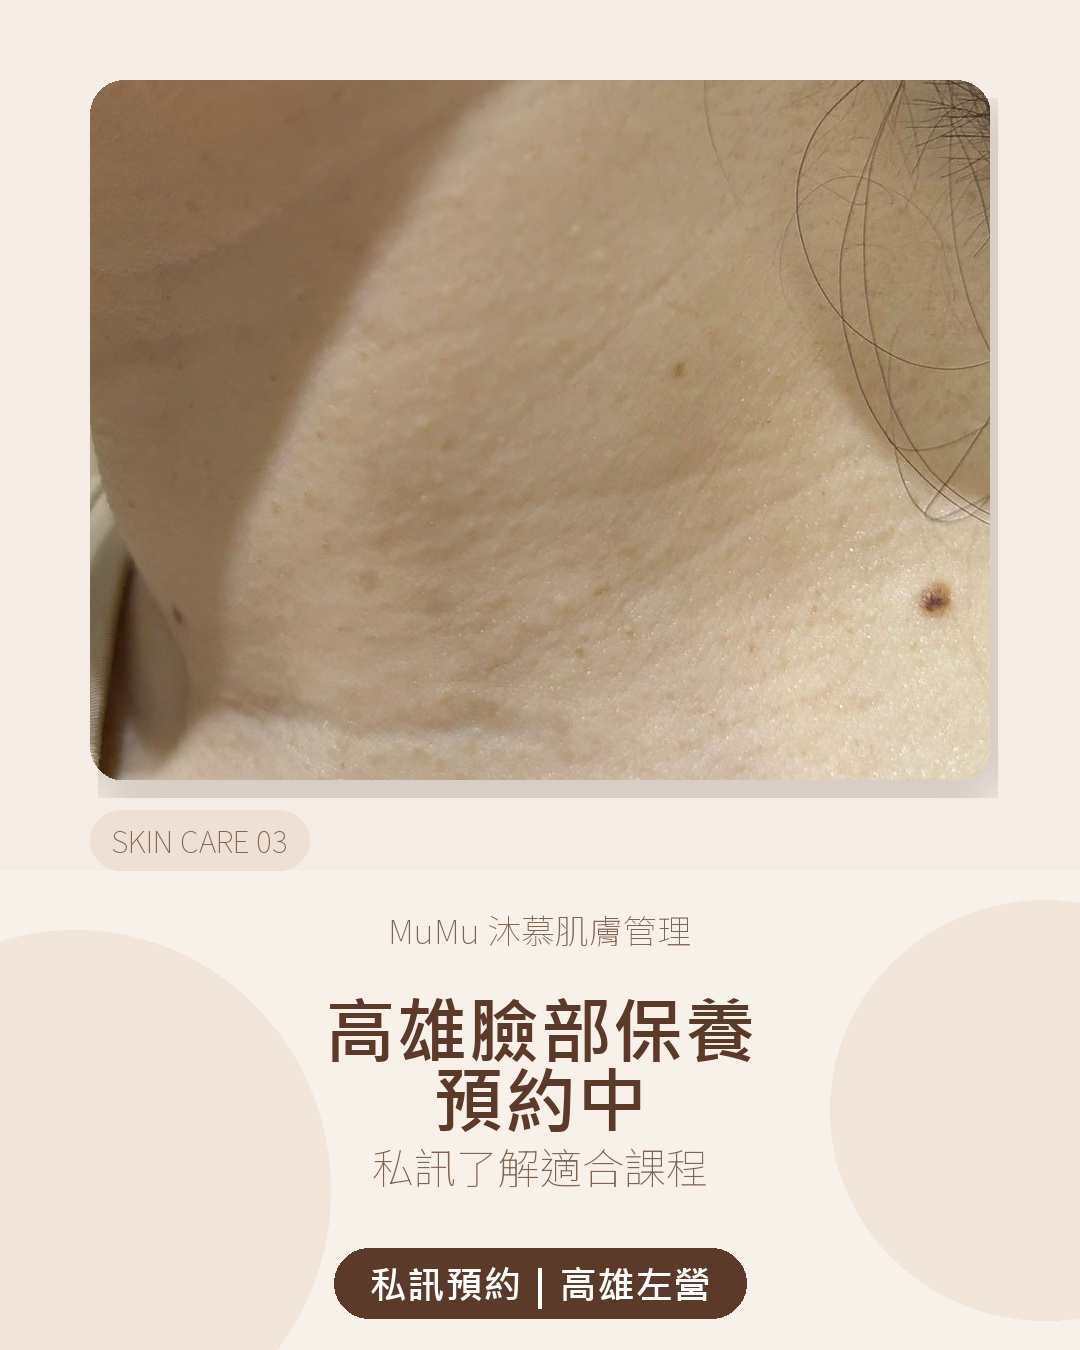
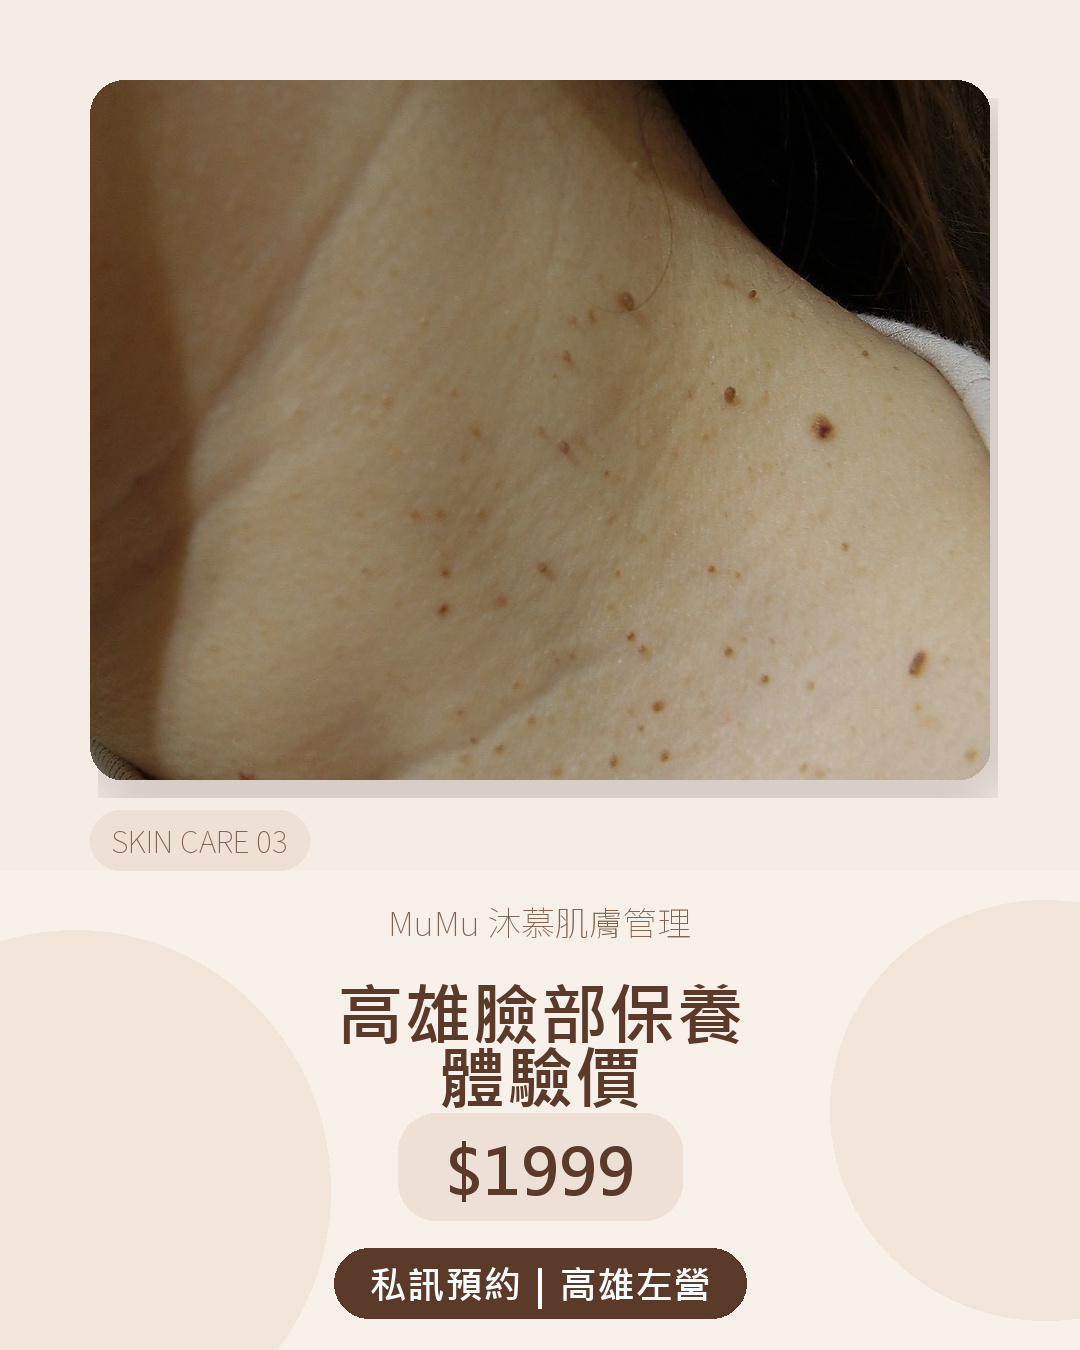
Update neck creative and price copy

diff --git a/index.html b/index.html
@@ -349,6 +349,8 @@
 
 MuMu 沐慕肌膚管理提供臉部清潔保養服務，依照膚況安排清潔、舒緩與保養流程，讓肌膚維持乾淨清爽的日常狀態。
 
+現在體驗價 $1999。
+
 想了解清粉刺或臉部保養課程，歡迎私訊預約。</div>
 
             <div class="carousel" aria-label="輪播圖片">
@@ -373,8 +375,8 @@ MuMu 沐慕肌膚管理提供臉部清潔保養服務，依照膚況安排清潔
               <div class="card">
                 <img src="03_kaohsiung_booking.jpg" alt="高雄臉部保養預約廣告圖">
                 <div class="card-text">
-                  <div class="card-title">高雄臉部保養預約中</div>
-                  <div class="card-sub">私訊了解適合課程</div>
+                  <div class="card-title">高雄臉部保養體驗價</div>
+                  <div class="card-sub">$1999｜私訊了解適合課程</div>
                   <div class="button">私訊預約</div>
                 </div>
               </div>
@@ -401,6 +403,8 @@ MuMu 沐慕肌膚管理提供臉部清潔保養服務，依照膚況安排清潔
 
 MuMu 沐慕肌膚管理提供臉部清潔保養服務，依照膚況安排清潔、舒緩與保養流程，讓肌膚維持乾淨清爽的日常狀態。
 
+現在體驗價 $1999。
+
 想了解清粉刺或臉部保養課程，歡迎私訊預約。
 高雄市左營區立明街 148 號</p>
         </div>
@@ -418,7 +422,7 @@ MuMu 沐慕肌膚管理提供臉部清潔保養服務，依照膚況安排清潔
             </div>
             <div class="mini">
               <img src="03_kaohsiung_booking.jpg" alt="第三張輪播圖">
-              <div>3. 高雄臉部保養預約中</div>
+              <div>3. 高雄臉部保養體驗價</div>
             </div>
           </div>
         </div>
